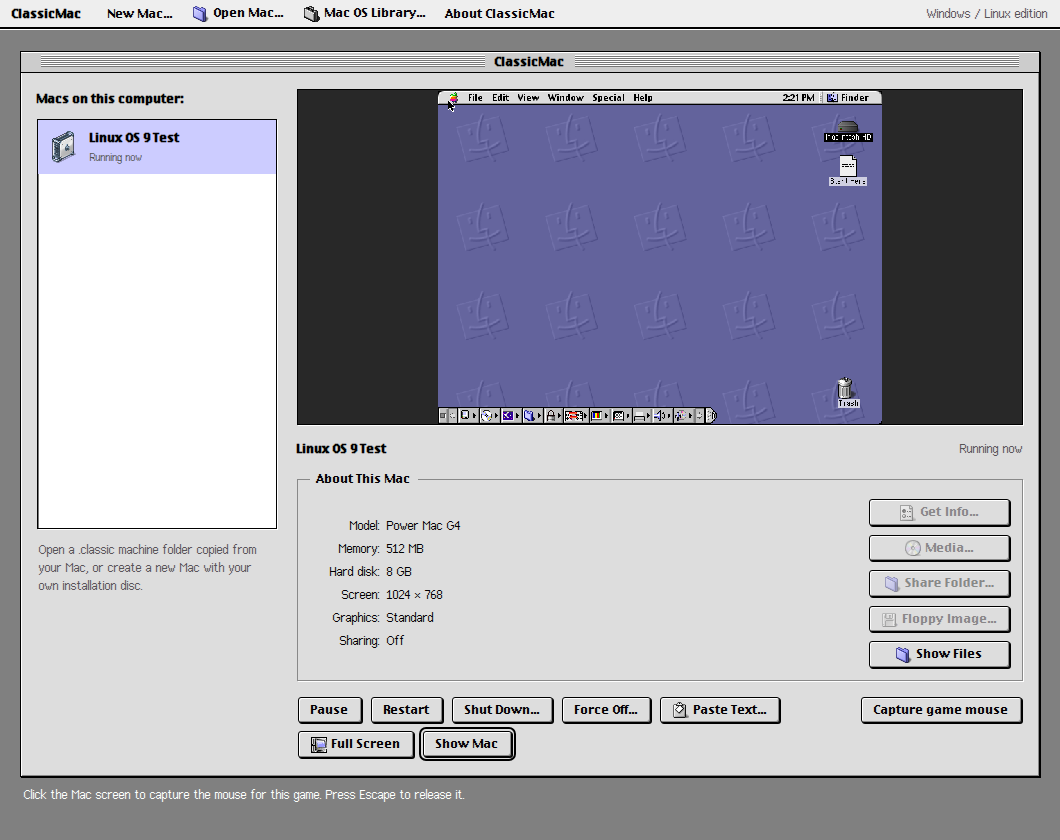
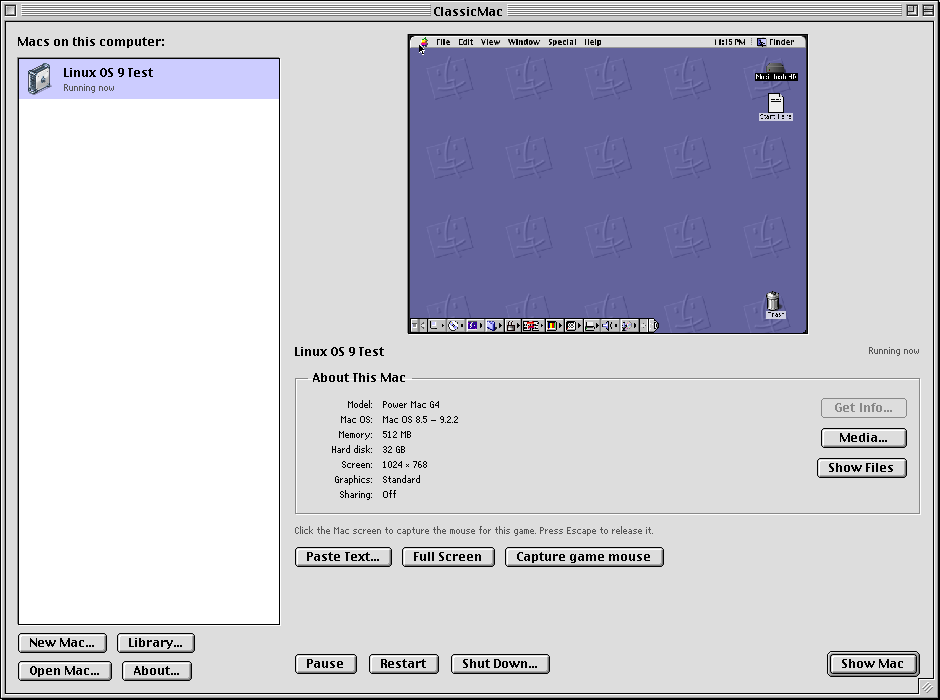
Retain final scale checks, portable captures and publication evidence

diff --git a/docs/screenshots/desktop/README.md b/docs/screenshots/desktop/README.md
@@ -1,16 +1,13 @@
-# Desktop captures
+# Windows and Linux desktop captures
 
-The current `windows.png` and `linux.png` show the exact native 4.2.0 packaged
-applications in GitHub CI, October 19, 2026: Windows run 39267099712 and Linux
-run 39267103833. The default-window toolbar is checked for visible bounds and
-one-line labels, with controls wrapping as whole buttons. OS9 runs from a
-private disposable public fixture; boot/display, restart and clean shutdown pass.
+`windows.png` and `linux.png` are direct captures of the final 4.5.0 portable
+EXE/AppImage on the dedicated AustinLand/Proxmox Windows 11 and Debian 13 test
+VMs, using the task-owned public Mac OS 9.2.1 fixture after restart. The guest
+then shuts down normally. Controls and the composed title frame are checked
+against the Mac drawing at 1× and 2×; these whole captures are visual evidence.
 
-The `windows-quadra.png` and `linux-quadra.png` captures remain from October 18
-4.1 testing on dedicated AustinLand/Proxmox SazProx VMs 171/170, at the Mac OS
-8.1 installation CD Finder. The 4.1 parity reports retain native MacRoman paste
-and Linux 9p host-read/guest-write evidence.
+`windows-quadra.png` and `linux-quadra.png` retain the earlier 4.1 qualification
+of Quadra 800 / Mac OS 8.1 on those same dedicated QA hosts. They are historical
+engine qualification, rather than 4.5 UI captures.
 
-Images are direct application captures. The guest preview scales to its pane;
-these are feature evidence, not pixel-fidelity references. The native Mac
-Platinum pixel scope is described in [the audit](../../platinum-fidelity-audit.md).
+See [4.5 validation](../../4.5.0-validation.md) and its measured coverage limits.
